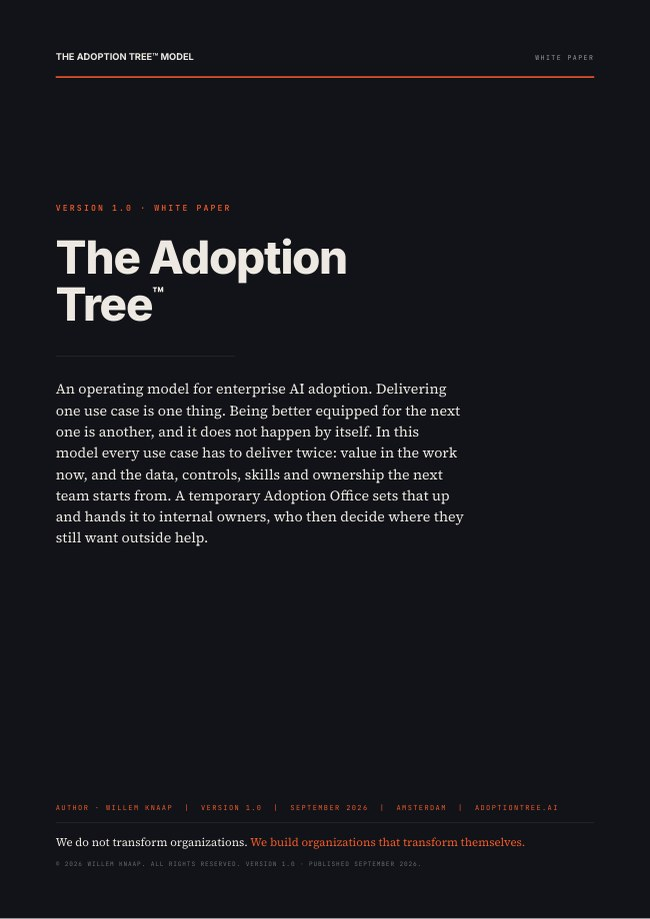
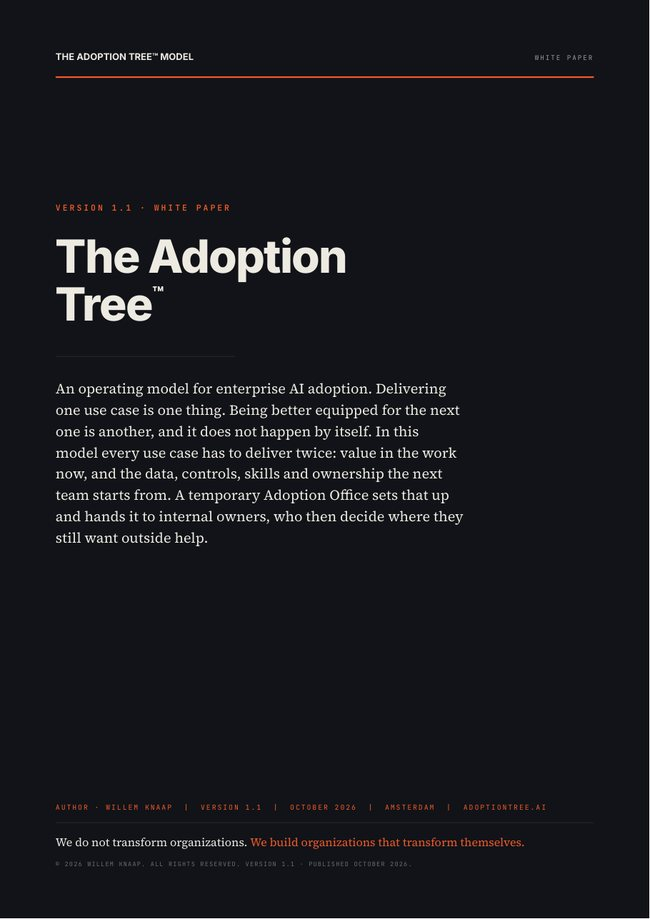
Version 1.1: site, access page, email and download follow the October 2026 white paper
The white paper is now version 1.1 (build 2026-10-04, first published September 2026 as version 1.0). The hero,
cover caption and preview, FAQ, author line and footers say so; the reader page and the access email name
version 1.1; the function serves The_Adoption_Tree_Model_White_Paper_v1.1.pdf and the previous object is
archived. The privacy page's date now matches its last change (28 September).

diff --git a/docs/index.html b/docs/index.html
@@ -11,8 +11,8 @@
 <meta property="og:url" content="https://adoptiontree.ai/">
 <link rel="canonical" href="https://adoptiontree.ai/">
 <link rel="stylesheet" href="css/fonts.css">
-<link rel="stylesheet" href="css/style.css?v=tree7"><link rel="icon" href="favicon.svg" type="image/svg+xml">
-<script src="js/main.js?v=tree7" defer></script>
+<link rel="stylesheet" href="css/style.css?v=tree8"><link rel="icon" href="favicon.svg" type="image/svg+xml">
+<script src="js/main.js?v=tree8" defer></script>
 </head>
 <body>
 <a class="skip-link" href="#main">Skip to content</a>
@@ -33,7 +33,7 @@
 <p class="hero__tag reveal"><strong>Build AI capability that stays.</strong><br><em>From one working AI use case to an organization that transforms itself.</em></p>
 <div class="hero__actions reveal"><a class="btn btn--orange" href="#whitepaper">Get the whitepaper <span aria-hidden="true">↗</span></a><a class="text-link" href="#tree">Explore the model <span aria-hidden="true">↓</span></a></div>
 </div>
-<div class="hero__edition label reveal"><span>Version 1.0 · September 2026</span><span>By Willem Knaap · Amsterdam</span></div>
+<div class="hero__edition label reveal"><span>Version 1.1 · October 2026</span><span>By Willem Knaap · Amsterdam</span></div>
 </div>
 </section>
 <div class="ticker" aria-hidden="true"><div class="ticker__track"><span>Build</span><i></i><span>Adopt</span><i></i><span>Prove</span><i></i><span>Transfer</span><i></i><span>Repeat</span><i></i><span>Build</span><i></i><span>Adopt</span><i></i><span>Prove</span><i></i><span>Transfer</span><i></i><span>Repeat</span><i></i><span>Build</span><i></i><span>Adopt</span><i></i><span>Prove</span><i></i><span>Transfer</span><i></i><span>Repeat</span><i></i><span>Build</span><i></i><span>Adopt</span><i></i><span>Prove</span><i></i><span>Transfer</span><i></i><span>Repeat</span><i></i><span>Build</span><i></i><span>Adopt</span><i></i><span>Prove</span><i></i><span>Transfer</span><i></i><span>Repeat</span><i></i><span>Build</span><i></i><span>Adopt</span><i></i><span>Prove</span><i></i><span>Transfer</span><i></i><span>Repeat</span><i></i></div></div>
@@ -226,7 +226,7 @@
 <form id="whitepaperForm" class="download-form" action="https://khvblzrzvqdkjxckedbm.supabase.co/functions/v1/whitepaper" method="post"><div class="form-fields"><div class="form-field"><label for="first_name">First name</label><input id="first_name" name="first_name" type="text" autocomplete="given-name" placeholder="Your first name" maxlength="40" pattern="\p{L}[\p{L}\p{M}'’.\-]{0,23}( \p{L}[\p{L}\p{M}'’.\-]{0,23}){0,2}" title="Letters, spaces, apostrophes and hyphens; up to three words" required></div><div class="form-field"><label for="email">Work email</label><input id="email" name="email" type="email" autocomplete="email" inputmode="email" placeholder="you@organization.com" maxlength="254" required aria-describedby="email-note form-status"></div></div><div class="form-field form-field--wide"><label for="organization">Organization <span class="form-optional">optional</span></label><input id="organization" name="organization" type="text" autocomplete="organization" placeholder="Where you work" maxlength="80"></div><label class="form-consent"><input id="consent" name="consent" type="checkbox" value="true" required><span>I agree that The Adoption Tree™ may contact me by email regarding the whitepaper, its application within my organization, related research and AI adoption services. I can unsubscribe at any time.</span></label><input type="hidden" name="utm_source"><input type="hidden" name="utm_medium"><input type="hidden" name="utm_campaign"><input type="hidden" name="utm_content"><input type="hidden" name="utm_term"><input type="hidden" name="referrer"><input type="hidden" name="landing_url"><div class="form-trap" aria-hidden="true"><label for="company_website">Leave this field empty</label><input id="company_website" name="company_website" type="text" tabindex="-1" autocomplete="off"></div><div class="form-row form-row--submit"><button class="btn btn--orange" type="submit">Get the whitepaper <span aria-hidden="true">→</span></button></div><p id="email-note" class="form-note">Access is sent by email. Your work address works best, it keeps the paper where the work is. <a href="privacy.html">Privacy policy</a></p><p id="form-status" class="form-status" role="status" aria-live="polite"></p></form>
 <div id="download-success" class="download-success" hidden tabindex="-1"><span class="label label--orange">Check your inbox</span><h3>We’ve sent you access to The Adoption Tree™ whitepaper.</h3><p>The link in the email is personal and valid for 7 days. Not there after a few minutes? Check your spam folder, or <button type="button" id="request-again" class="inline-button">request it again</button>.</p></div>
 </div>
-<figure class="book-preview reveal"><div class="book-preview__frame"><img src="assets/whitepaper-cover.jpg" width="650" height="919" loading="lazy" alt="Cover of The Adoption Tree™ Model white paper, version 1.0, by Willem Knaap"></div><figcaption><span>43 pages · PDF · Version 1.0</span><span>Willem Knaap · September 2026</span></figcaption></figure>
+<figure class="book-preview reveal"><div class="book-preview__frame"><img src="assets/whitepaper-cover.jpg" width="650" height="919" loading="lazy" alt="Cover of The Adoption Tree™ Model white paper, version 1.1, by Willem Knaap"></div><figcaption><span>43 pages · PDF · Version 1.1</span><span>Willem Knaap · October 2026</span></figcaption></figure>
 </div>
 </section>
 
@@ -238,14 +238,14 @@
 <details><summary>Does every wave need to build a new foundation?</summary><p>No. Each wave should inherit approved assets and leave useful additions behind. Readiness is assessed before Gate 0. If it is too weak, the first step is a readiness project or a smaller use case.</p></details>
 <details><summary>Does temporary mean every external specialist must leave?</summary><p>No. A chosen, priced and replaceable specialist can remain. What should decline is dependence on a particular external party to make decisions, challenge them, substitute a supplier or exit an arrangement.</p></details>
 <details><summary>Who pays for it after the office leaves?</summary><p>A named budget line does, agreed before the handover rather than at it. The cost side is built at the same gates as the benefit side: a candidate envelope at Gate 0, a first run-cost estimate at Gate 2, metered consumption during bounded production, and both halves measured at Gate 4. At Gate 5 the domain owner accepts the run cost into a budget line.</p></details>
-<details><summary>Has the model been validated in practice?</summary><p>Version 1.0 is published as a design proposal. It combines established ideas; the complete configuration has not yet been evaluated in practice. The reference case is illustrative and the timings are planning assumptions.</p></details>
+<details><summary>Has the model been validated in practice?</summary><p>Version 1.1 is published as a design proposal. It combines established ideas; the complete configuration has not yet been evaluated in practice. The reference case is illustrative and the timings are planning assumptions.</p></details>
 </div>
-<div class="author-note reveal"><p class="label label--orange">About the author</p><p>Willem Knaap developed the model from fifteen years of work and conversations in innovation and technology adoption. Published in Amsterdam, September 2026.</p><p class="author-links"><a href="https://www.linkedin.com/in/willemknaap/" rel="me noopener" target="_blank">LinkedIn ↗</a><a href="https://www.willemknaap.com" rel="me noopener" target="_blank">willemknaap.com ↗</a><a href="mailto:willem@adoptiontree.ai">willem@adoptiontree.ai</a></p><a class="text-link" href="#whitepaper">Get the whitepaper <span aria-hidden="true">↗</span></a></div>
+<div class="author-note reveal"><p class="label label--orange">About the author</p><p>Willem Knaap developed the model from fifteen years of work and conversations in innovation and technology adoption. Version 1.1 published in Amsterdam, October 2026. First published September 2026 as version 1.0.</p><p class="author-links"><a href="https://www.linkedin.com/in/willemknaap/" rel="me noopener" target="_blank">LinkedIn ↗</a><a href="https://www.willemknaap.com" rel="me noopener" target="_blank">willemknaap.com ↗</a><a href="mailto:willem@adoptiontree.ai">willem@adoptiontree.ai</a></p><a class="text-link" href="#whitepaper">Get the whitepaper <span aria-hidden="true">↗</span></a></div>
 </section>
 <div class="closing"><p>Agree what will go live.<br><span>And who will run it after.</span></p><a class="btn btn--solid" href="#whitepaper">Get the whitepaper <span aria-hidden="true">↗</span></a></div>
 </main>
 <footer class="site-footer">
 <div><a class="nav__brand" href="#top"><span class="nav__mark"></span><span class="nav__name">Adoption Tree™ / Model</span></a><p>© 2026 Willem Knaap. All rights reserved.</p><p class="author-links"><a href="https://www.linkedin.com/in/willemknaap/" rel="me noopener" target="_blank">LinkedIn ↗</a><a href="https://www.willemknaap.com" rel="me noopener" target="_blank">willemknaap.com ↗</a><a href="mailto:willem@adoptiontree.ai">willem@adoptiontree.ai</a></p></div>
-<div><p>Version 1.0 · An operating model for enterprise AI adoption.</p><p><a href="privacy.html">Privacy policy</a></p></div>
+<div><p>Version 1.1 · An operating model for enterprise AI adoption.</p><p><a href="privacy.html">Privacy policy</a></p></div>
 </footer>
 </body></html>

diff --git a/supabase/functions/whitepaper/index.ts b/supabase/functions/whitepaper/index.ts
@@ -12,7 +12,7 @@ import policy from "./email-policy.json" with { type: "json" };
 import { clean, consentGiven, emailDomain, hasAttribution, inferredCompany, isBlockedDomain, normalizeEmail, normalizeName, POLICY_VERSION, readAttribution, validEmail, validFirstName } from "./policy.ts";
 
 const BUCKET = "whitepaper";
-const OBJECT = "The_Adoption_Tree_Model_White_Paper_v1.0.pdf";
+const OBJECT = "The_Adoption_Tree_Model_White_Paper_v1.1.pdf";
 const STORAGE_LINK_SECONDS = 600;
 const ACCESS_LINK_MS = 7 * 86_400_000;
 // 32 unambiguous characters, no l/o/0/1, so a code survives being read aloud or copied by hand.
@@ -187,8 +187,8 @@ async function sendAccessEmail(lead: { email: string; first_name: string }, acce
   if (!apiKey) { console.error("email provider is not configured"); return false; }
   const name = lead.first_name || "there";
   const subject = "Your access to The Adoption Tree™ white paper";
-  const text = `Hi ${name},\n\nHere is your personal access to The Adoption Tree™ white paper, version 1.0 (43 pages):\n\n${accessUrl}\n\nThe link is valid for 7 days and opens the PDF directly.\n\nWillem Knaap\nThe Adoption Tree™ · ${SITE_URL}\n\nYou receive this email because you requested the white paper on ${SITE_URL.replace(/^https?:\/\//, "")} and agreed to be contacted about it. Unsubscribe from further contact: ${unsubUrl}\n`;
-  const html = `<!DOCTYPE html><html lang="en"><body style="margin:0;background:#F4F2ED;font-family:Archivo,Helvetica,Arial,sans-serif;color:#0C0D12"><div style="max-width:560px;margin:0 auto;padding:40px 24px"><p style="font-family:'IBM Plex Mono',Menlo,monospace;font-size:11px;letter-spacing:.2em;text-transform:uppercase;color:#FF5C1F;margin:0 0 20px">The Adoption Tree™ · white paper</p><p style="font-size:17px;line-height:1.6;margin:0 0 16px">Hi ${escapeHtml(name)},</p><p style="font-size:17px;line-height:1.6;margin:0 0 24px">Here is your personal access to <strong>The Adoption Tree™ white paper</strong>, version 1.0, 43 pages including the five working tools.</p><p style="margin:0 0 28px"><a href="${accessUrl}" style="display:inline-block;background:#FF5C1F;color:#0C0D12;font-family:'IBM Plex Mono',Menlo,monospace;font-size:12px;letter-spacing:.16em;text-transform:uppercase;text-decoration:none;padding:14px 22px;border-radius:999px">Open the white paper</a></p><p style="font-size:14px;line-height:1.6;color:#4A4A52;margin:0 0 24px">The link is valid for 7 days and opens the PDF directly. If the button does not work, copy this address into your browser:<br><span style="word-break:break-all">${accessUrl}</span></p><p style="font-size:15px;line-height:1.6;margin:0 0 32px">Willem Knaap<br><a href="${SITE_URL}" style="color:#0C0D12">${SITE_URL.replace(/^https?:\/\//, "")}</a></p><p style="font-size:12px;line-height:1.6;color:#7A7A82;border-top:1px solid #D8D2C4;padding-top:16px;margin:0">You receive this email because you requested the white paper on ${SITE_URL.replace(/^https?:\/\//, "")} and agreed to be contacted about it. <a href="${unsubUrl}" style="color:#7A7A82">Unsubscribe from further contact</a>.</p></div></body></html>`;
+  const text = `Hi ${name},\n\nHere is your personal access to The Adoption Tree™ white paper, version 1.1 (43 pages):\n\n${accessUrl}\n\nThe link is valid for 7 days and opens the PDF directly.\n\nWillem Knaap\nThe Adoption Tree™ · ${SITE_URL}\n\nYou receive this email because you requested the white paper on ${SITE_URL.replace(/^https?:\/\//, "")} and agreed to be contacted about it. Unsubscribe from further contact: ${unsubUrl}\n`;
+  const html = `<!DOCTYPE html><html lang="en"><body style="margin:0;background:#F4F2ED;font-family:Archivo,Helvetica,Arial,sans-serif;color:#0C0D12"><div style="max-width:560px;margin:0 auto;padding:40px 24px"><p style="font-family:'IBM Plex Mono',Menlo,monospace;font-size:11px;letter-spacing:.2em;text-transform:uppercase;color:#FF5C1F;margin:0 0 20px">The Adoption Tree™ · white paper</p><p style="font-size:17px;line-height:1.6;margin:0 0 16px">Hi ${escapeHtml(name)},</p><p style="font-size:17px;line-height:1.6;margin:0 0 24px">Here is your personal access to <strong>The Adoption Tree™ white paper</strong>, version 1.1, 43 pages including the five working tools.</p><p style="margin:0 0 28px"><a href="${accessUrl}" style="display:inline-block;background:#FF5C1F;color:#0C0D12;font-family:'IBM Plex Mono',Menlo,monospace;font-size:12px;letter-spacing:.16em;text-transform:uppercase;text-decoration:none;padding:14px 22px;border-radius:999px">Open the white paper</a></p><p style="font-size:14px;line-height:1.6;color:#4A4A52;margin:0 0 24px">The link is valid for 7 days and opens the PDF directly. If the button does not work, copy this address into your browser:<br><span style="word-break:break-all">${accessUrl}</span></p><p style="font-size:15px;line-height:1.6;margin:0 0 32px">Willem Knaap<br><a href="${SITE_URL}" style="color:#0C0D12">${SITE_URL.replace(/^https?:\/\//, "")}</a></p><p style="font-size:12px;line-height:1.6;color:#7A7A82;border-top:1px solid #D8D2C4;padding-top:16px;margin:0">You receive this email because you requested the white paper on ${SITE_URL.replace(/^https?:\/\//, "")} and agreed to be contacted about it. <a href="${unsubUrl}" style="color:#7A7A82">Unsubscribe from further contact</a>.</p></div></body></html>`;
   try {
     const res = await postToProvider(apiKey, { from: EMAIL_FROM, to: [lead.email], reply_to: EMAIL_REPLY_TO, subject, text, html, headers: { "List-Unsubscribe": `<${oneClickUrl}>`, "List-Unsubscribe-Post": "List-Unsubscribe=One-Click" } });
     if (!res.ok) { console.error("email send failed with status " + res.status); providerDownUntil = Date.now() + PROVIDER_BACKOFF_MS; return false; }

diff --git a/docs/privacy.html b/docs/privacy.html
@@ -22,7 +22,7 @@
 <div class="legal">
 <div class="section__head"><span class="label">Privacy policy</span></div>
 <h2 class="section__title" style="margin-bottom:1rem">What this site does with your details.</h2>
-<p class="lead">adoptiontree.ai is the website of The Adoption Tree™ Model, published by Willem Knaap in Amsterdam. The site collects personal data only when you request the white paper: what you enter in the form, plus the technical details listed below. This page describes that in plain terms. Last updated 15 September 2026.</p>
+<p class="lead">adoptiontree.ai is the website of The Adoption Tree™ Model, published by Willem Knaap in Amsterdam. The site collects personal data only when you request the white paper: what you enter in the form, plus the technical details listed below. This page describes that in plain terms. Last updated 28 September 2026.</p>
 
 <h2>What is collected, and when</h2>
 <p>When you request the white paper, the form asks for your first name and your work email address, and you tick a consent box. The site records:</p>
@@ -67,6 +67,6 @@
 </main>
 <footer class="site-footer">
 <div><a class="nav__brand" href="index.html"><span class="nav__mark"></span><span class="nav__name">Adoption Tree™ / Model</span></a><p>© 2026 Willem Knaap. All rights reserved.</p></div>
-<div><p>Version 1.0 · An operating model for enterprise AI adoption.</p><p><a href="index.html">Back to the site</a></p></div>
+<div><p>Version 1.1 · An operating model for enterprise AI adoption.</p><p><a href="index.html">Back to the site</a></p></div>
 </footer>
 </body></html>

diff --git a/docs/paper/index.html b/docs/paper/index.html
@@ -24,7 +24,7 @@
 
 <div id="state-opening">
 <h2 class="section__title" style="margin-bottom:1rem">Opening your white paper</h2>
-<p class="lead">The Adoption Tree™ Model, version 1.0. Forty-three pages, including the five working tools.</p>
+<p class="lead">The Adoption Tree™ Model, version 1.1. Forty-three pages, including the five working tools.</p>
 <p class="source-note">This takes a moment. If nothing happens, use the button below.</p>
 <p style="margin-top:1.6rem"><a class="btn btn--orange" id="open-button" href="#">Open the PDF <span aria-hidden="true">→</span></a></p>
 </div>
@@ -73,6 +73,6 @@
 </script>
 <footer class="site-footer">
 <div><a class="nav__brand" href="../index.html"><span class="nav__mark"></span><span class="nav__name">Adoption Tree™ / Model</span></a><p>© 2026 Willem Knaap. All rights reserved.</p></div>
-<div><p>Version 1.0 · An operating model for enterprise AI adoption.</p><p><a href="../index.html">Back to the site</a></p></div>
+<div><p>Version 1.1 · An operating model for enterprise AI adoption.</p><p><a href="../index.html">Back to the site</a></p></div>
 </footer>
 </body></html>

diff --git a/docs/unsubscribe.html b/docs/unsubscribe.html
@@ -38,6 +38,6 @@
 <script>(function(){var t=new URLSearchParams(location.search).get("token")||"";var f=document.getElementById("unsub-form");if(/^[\w-]+\.[\w-]+$/.test(t)&&t.length<=600){f.token.value=t;}else{f.hidden=true;document.getElementById("unsub-invalid").hidden=false;}})();</script>
 <footer class="site-footer">
 <div><a class="nav__brand" href="index.html"><span class="nav__mark"></span><span class="nav__name">Adoption Tree™ / Model</span></a><p>© 2026 Willem Knaap. All rights reserved.</p></div>
-<div><p>Version 1.0 · An operating model for enterprise AI adoption.</p><p><a href="index.html">Back to the site</a></p></div>
+<div><p>Version 1.1 · An operating model for enterprise AI adoption.</p><p><a href="index.html">Back to the site</a></p></div>
 </footer>
 </body></html>

diff --git a/README.md b/README.md
@@ -1,6 +1,7 @@
 # Adoption Tree Model website
 
-A landing page based on Willem Knaap's September 2026, version 1.0 white paper (build 2026-09-14.2).
+A landing page based on Willem Knaap's white paper, version 1.1 of October 2026 (build 2026-10-04; first
+published September 2026 as version 1.0).
 The original ink, bone and orange design and the animated tree are retained.
 
 ## How it is built
@@ -9,11 +10,13 @@ The original ink, bone and orange design and the animated tree are retained.
   favicon.svg, CNAME). Hosted on GitHub Pages from `docs/` on the main branch of a public repository at
   https://adoptiontree.ai; only that folder is published, never the function source or this file. Every push deploys.
   No build step, no dependencies.
-- **Explainer video:** `docs/assets/video/` holds the 96 second explainer (H.264 and AAC, 1080p, 7.7 MB, moov
+- **Explainer video:** `docs/assets/video/` holds the 102 second explainer (H.264 and AAC, 1080p, 8.3 MB, moov
   atom first so it streams), its poster and WebVTT captions. It is self-hosted on purpose: no third-party player,
   so the privacy promise of no cookies and no tracking holds. `#explainer` in index.html shows one play target
   over the poster until first play, then hands over to the browser's own controls; without JavaScript the native
   controls are there from the start. To replace the film, overwrite the three files and keep the names.
+  The line under the frame links the two sources of the figures spoken in the film; when the film's figures
+  change, that line and the white paper change with it, since the paper is the reference for both.
 - **White paper requests:** supabase/functions/whitepaper, a Supabase Edge Function with four routes. The form
   posts first name, work email and consent; the function validates (syntax, a free and disposable provider deny
   list, a DNS check that the domain can receive mail, explicit consent), stores the lead, and emails a personal
@@ -45,8 +48,10 @@ Open http://127.0.0.1:4173. The form posts to the live Supabase function, which 
    which invalidates every outstanding access link within a minute (the function caches the key for 60
    seconds). Unsubscribe links are signed with `whitepaper_unsub_secret`; do not rotate that one, or the
    unsubscribe links in every delivered email stop working.
-3. Upload the PDF to bucket `whitepaper` as `The_Adoption_Tree_Model_White_Paper_v1.0.pdf` (the object name is
-   fixed in the function). The PDF itself is not part of this repository.
+3. Upload the PDF to bucket `whitepaper` as `The_Adoption_Tree_Model_White_Paper_v1.1.pdf` (the object name is
+   the `OBJECT` constant in the function; a new version means a new object, a new constant and a redeploy, and
+   the previous object is renamed `ARCHIVED-<build date>-...`). With the CLI:
+   `supabase storage cp <file> ss:///whitepaper/<name> --content-type application/pdf --experimental --project-ref <ref>`. The PDF itself is not part of this repository.
 4. Deploy the function `whitepaper` (files: index.ts, policy.ts, email-policy.json) with JWT verification off:
    the browser form carries no token. Allowed site origins are listed in DEFAULT_ORIGINS; a comma-separated
    `ALLOWED_ORIGINS` secret overrides them without a redeploy.
